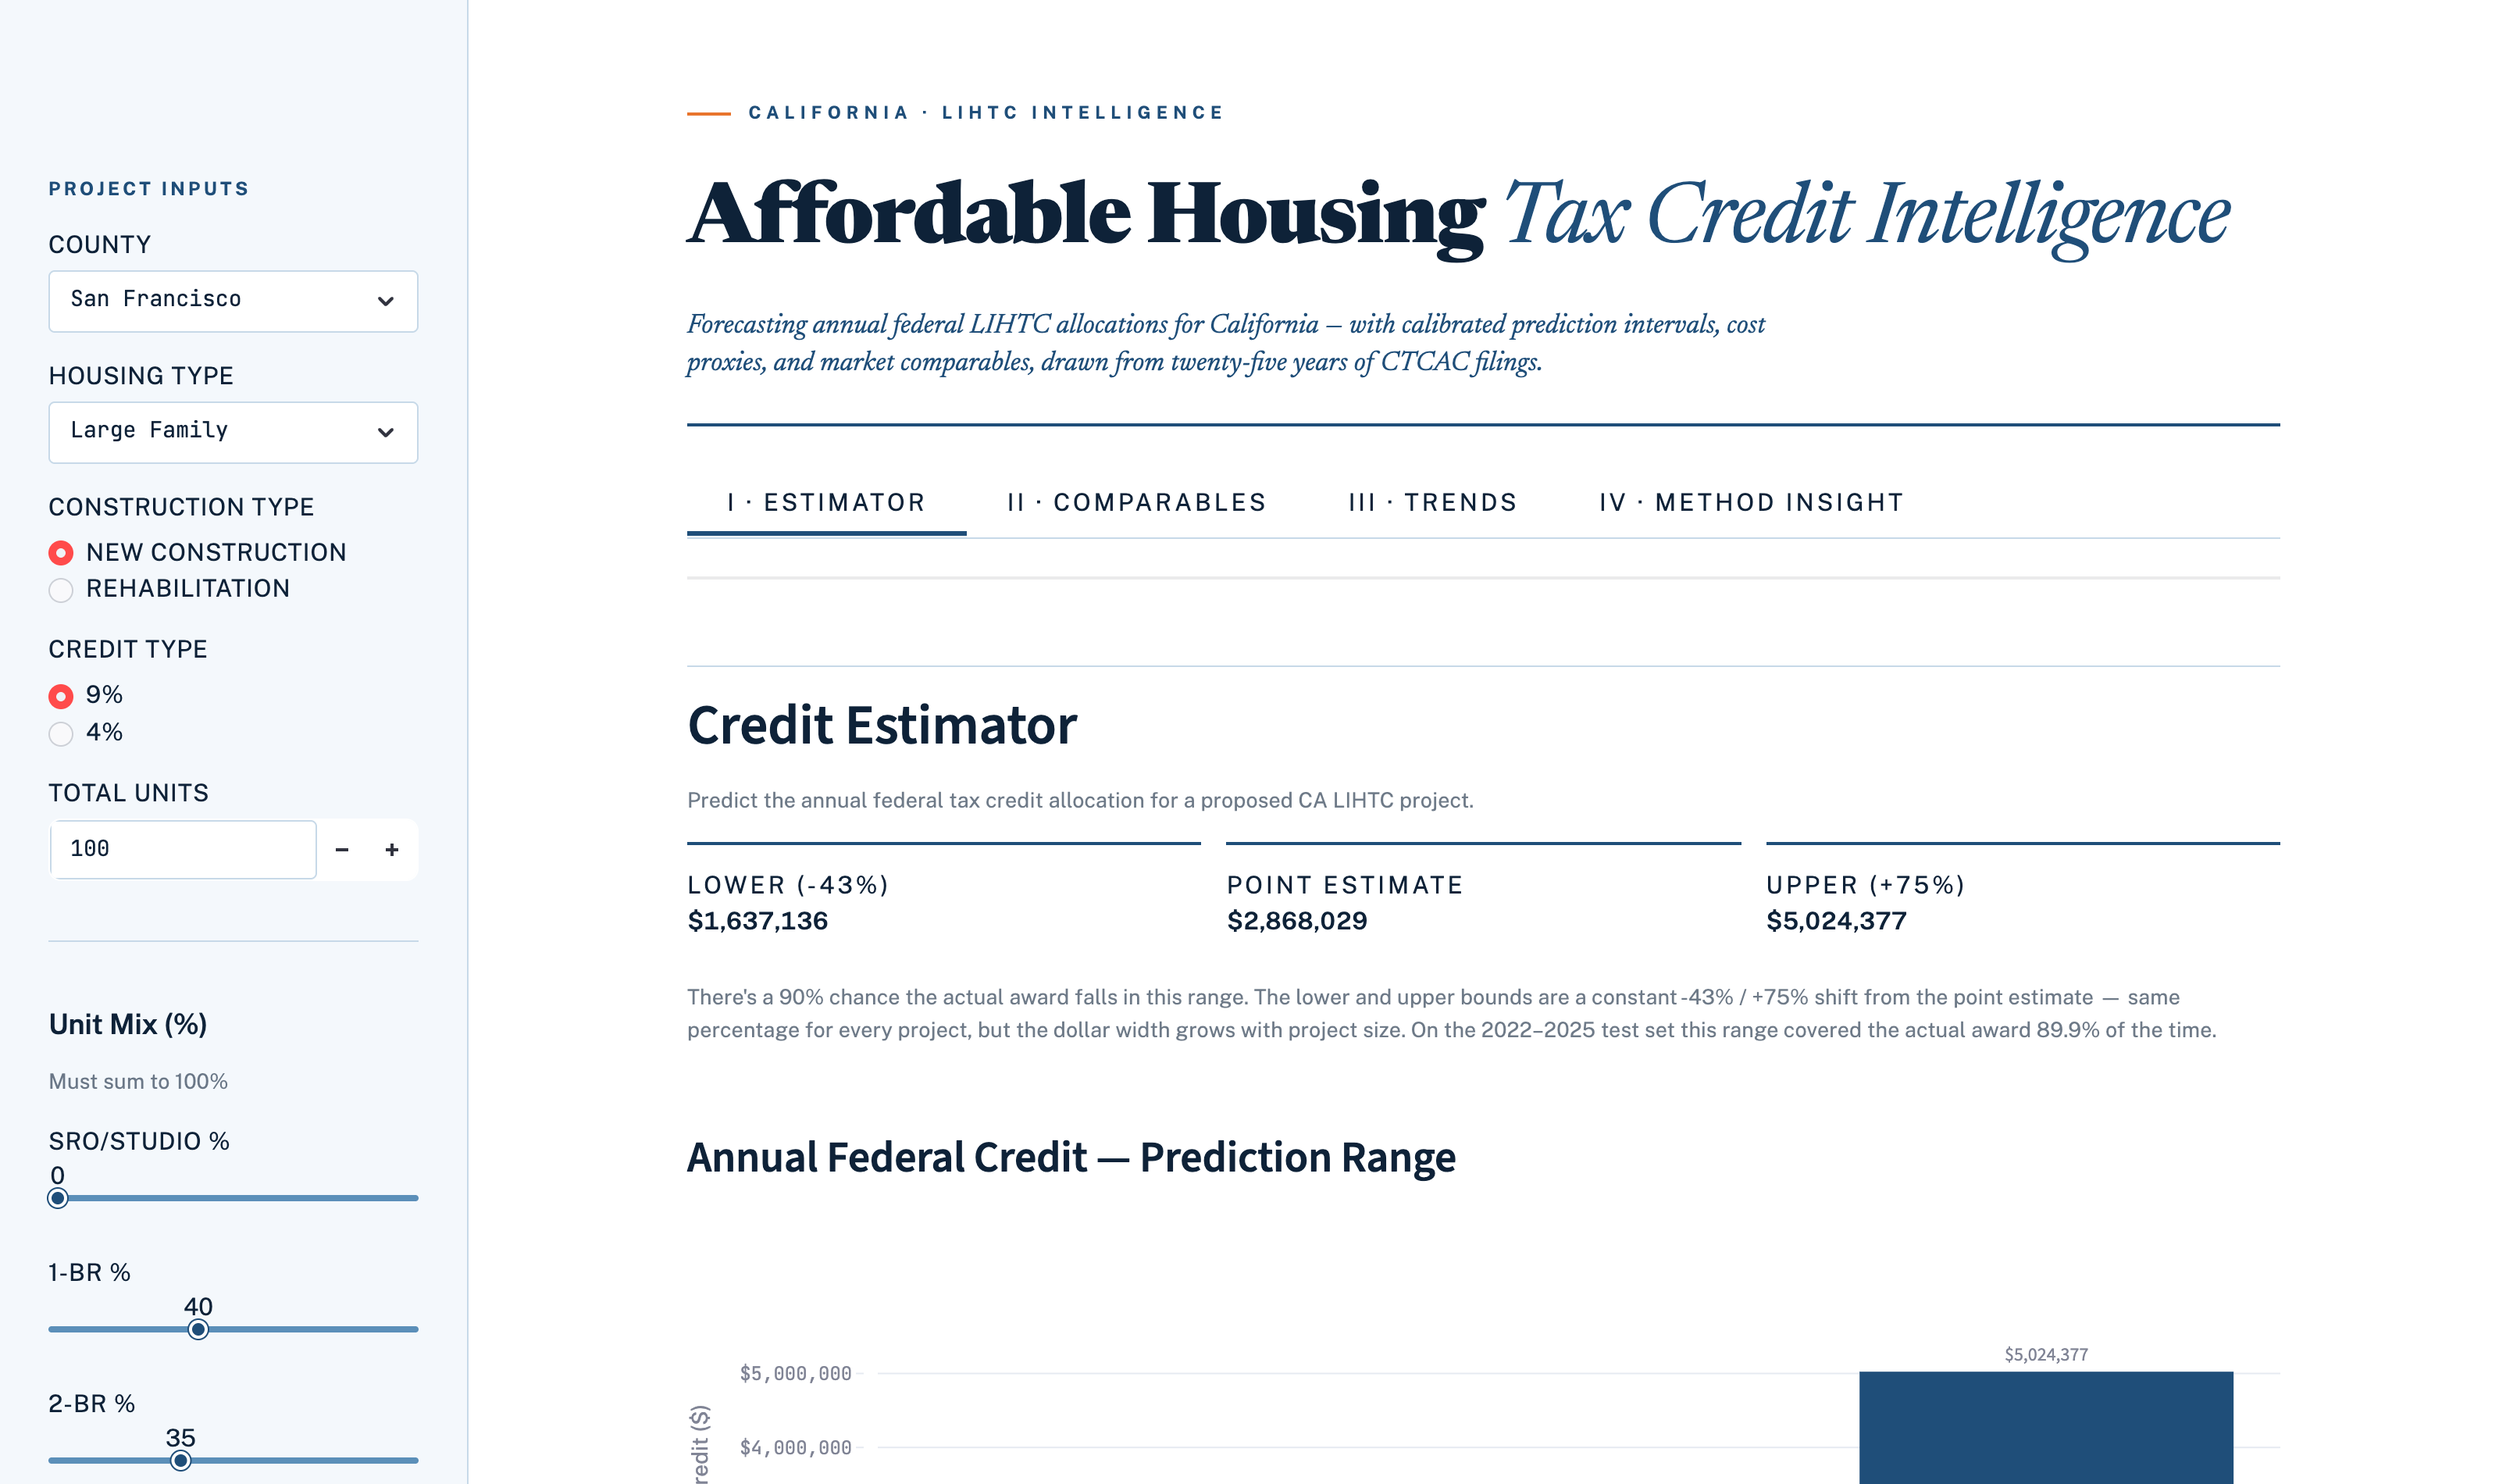
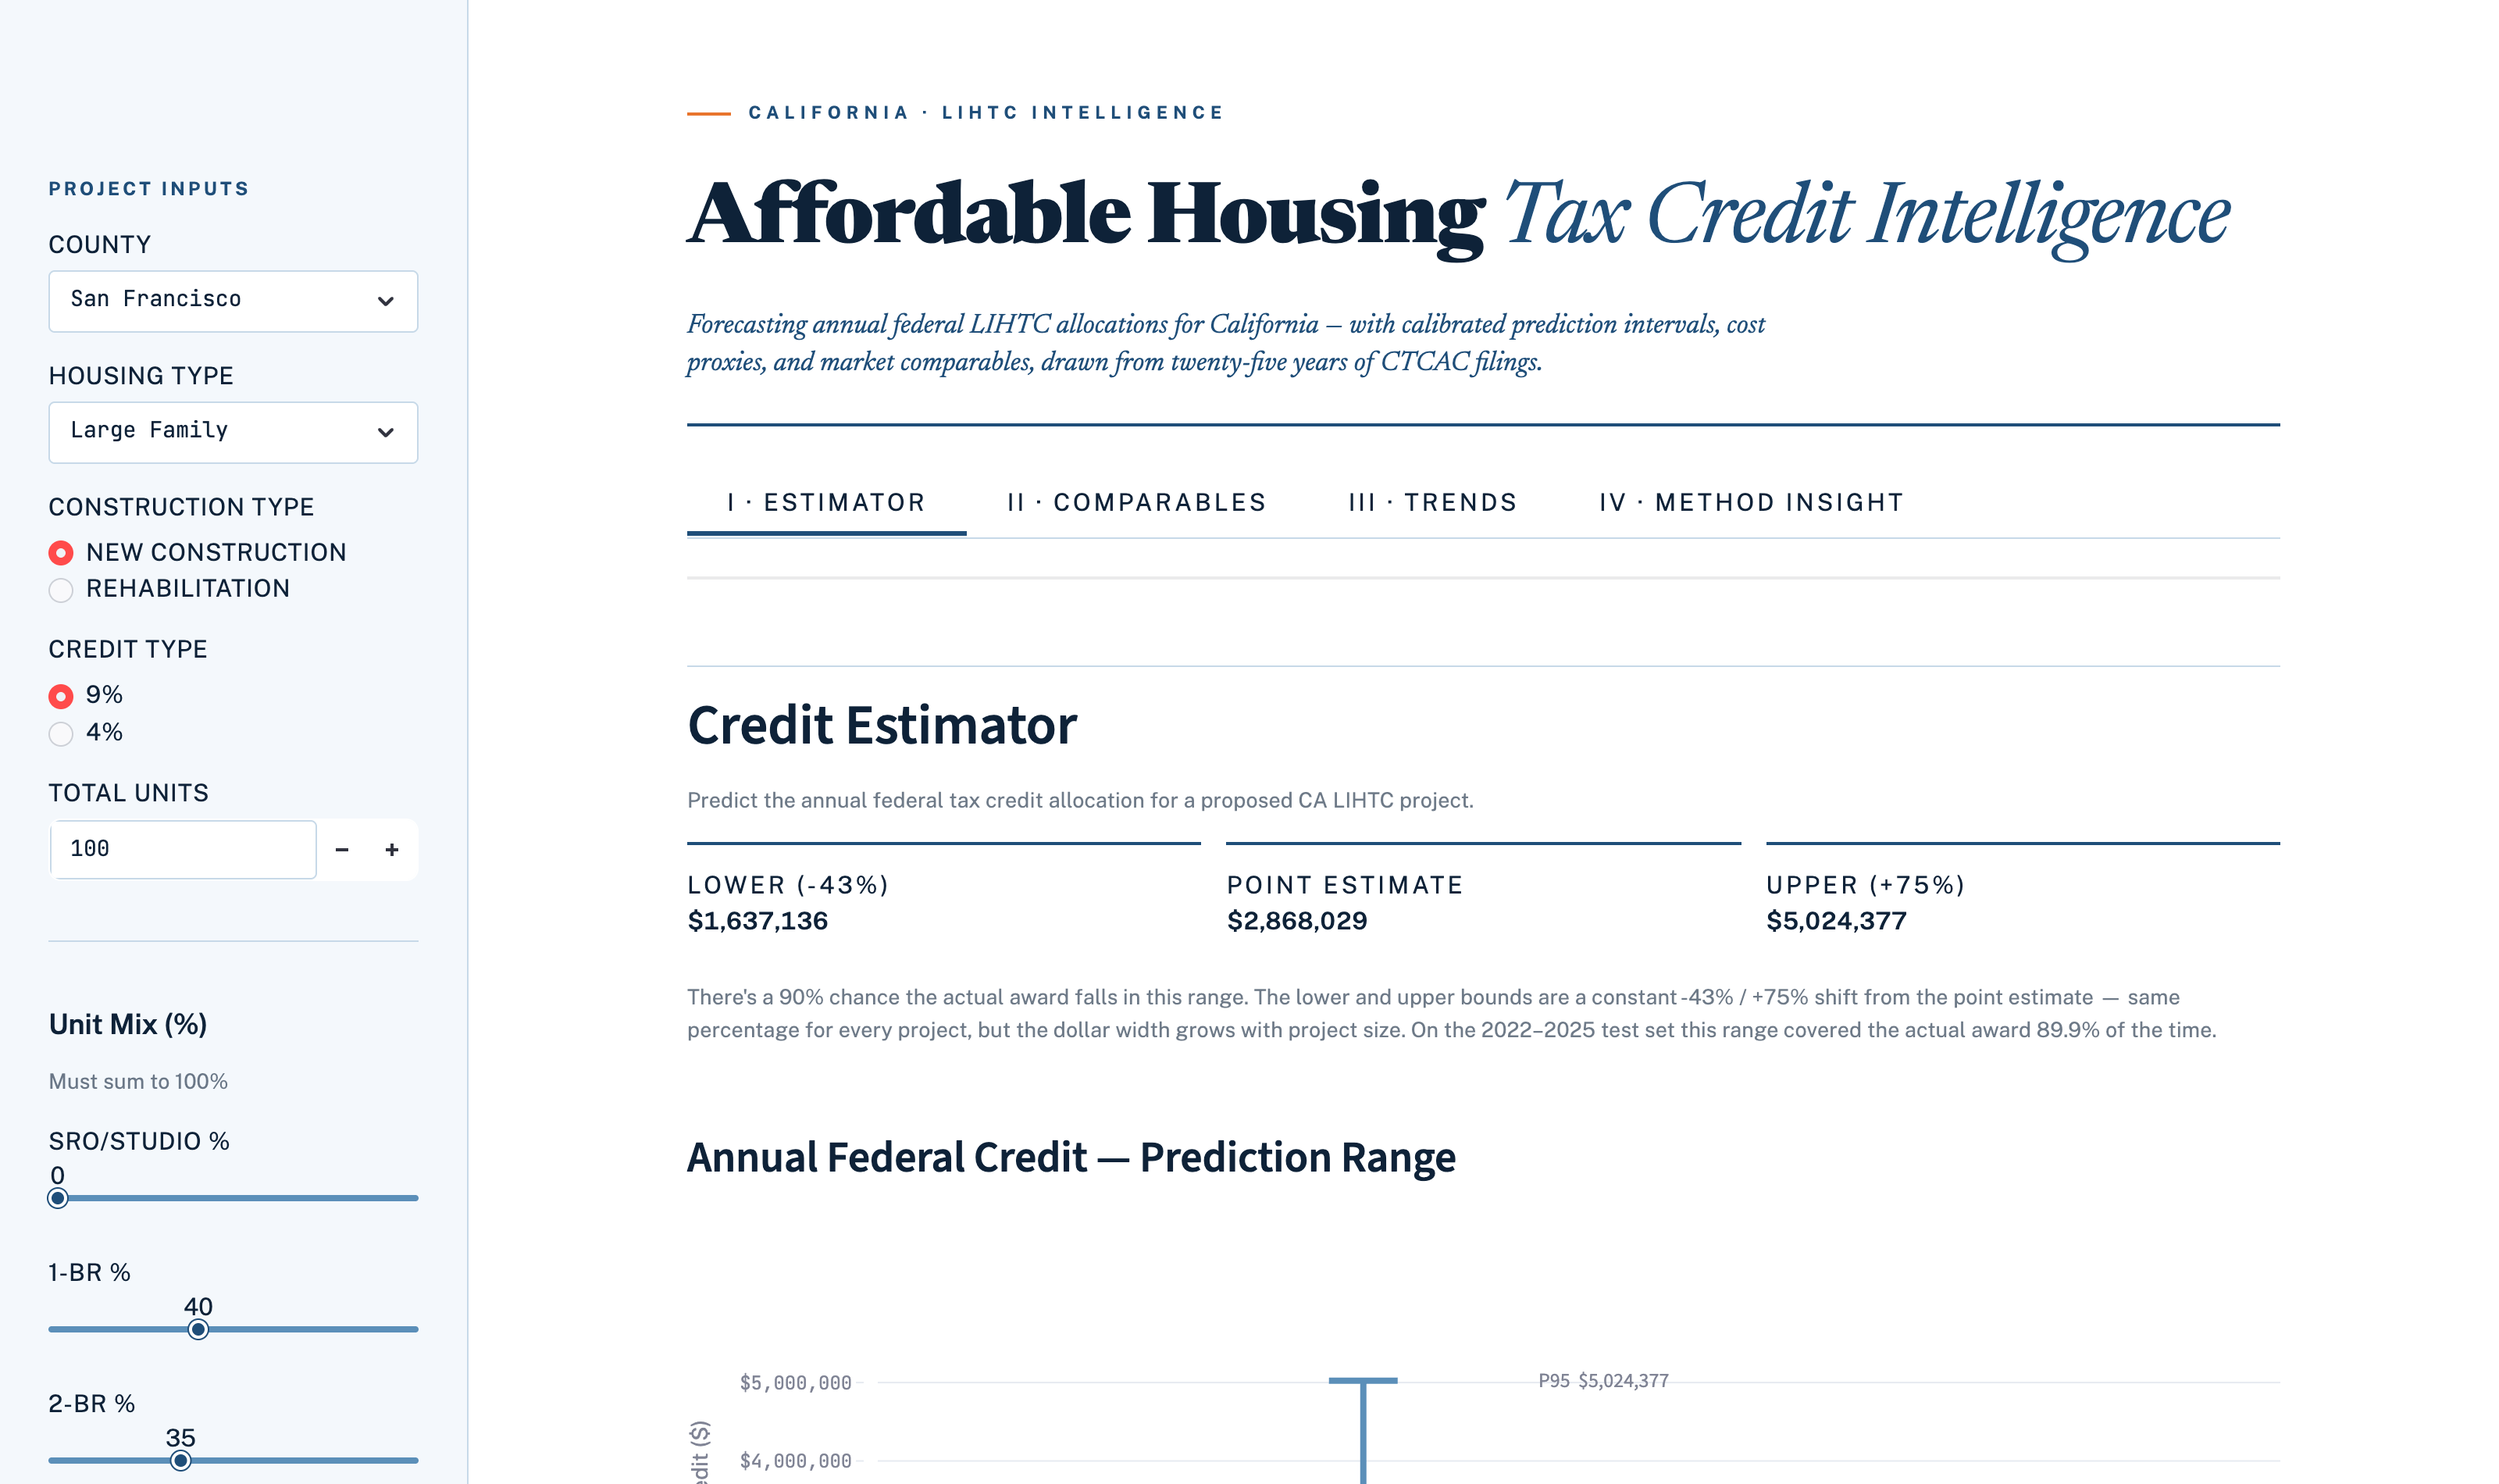
feat(app): chart redesign — interval dot plot, stacked volume, housing defaults, captions, overfit-vs-shift table
- Tab I: 3-bar prediction range replaced with dot + error bar (one estimate
  with its 90% interval, dollars on the y-axis)
- Tab II: comparables table drops formula-derived Basis/Unit column, shorter
  headers so all columns fit; county trend line gains small-n caption
- Tab III: statewide/county captions added; housing-type chart defaults to
  3 of 6 types behind a multiselect; volume chart stacked by credit type
  with 2008-trough / 2023-24-surge caption
- Tab IV: new overfit-vs-shift table (NB04 §10a three-stage R² decomposition)
- README screenshots refreshed to match

diff --git a/streamlit_app.py b/streamlit_app.py
@@ -495,23 +495,47 @@ def render_credit_estimator(models, lookups, ppi_df, inputs):
         f"{models['conformal']['coverage_test']:.1f}% of the time."
     )
 
-    # --- Prediction range bar chart ---
+    # --- Prediction range: dot + error bar (one estimate with its interval) ---
+    # The three numbers are ONE estimate and its uncertainty range, not three
+    # quantities to compare — so they're drawn as a dot with a whisker, dollar
+    # amounts on the y-axis, instead of three side-by-side bars.
     st.subheader("Annual Federal Credit — Prediction Range")
-    fig_bar = go.Figure()
-    fig_bar.add_trace(go.Bar(
-        x=[lower_label, "Point estimate", upper_label],
-        y=[p10, p50, p90],
-        marker_color=[CHART_COLORS["lower"], CHART_COLORS["point"], CHART_COLORS["upper"]],
-        text=[f"${p10:,.0f}", f"${p50:,.0f}", f"${p90:,.0f}"],
-        textposition="outside",
+    fig_range = go.Figure()
+    fig_range.add_trace(go.Scatter(
+        x=["Your project"], y=[p50],
+        mode="markers",
+        marker=dict(size=18, color=CHART_COLORS["upper"]),
+        error_y=dict(
+            type="data", symmetric=False,
+            array=[p90 - p50], arrayminus=[p50 - p10],
+            color=CHART_COLORS["point"], thickness=4, width=22,
+        ),
+        customdata=[[p10, p90]],
+        hovertemplate=(
+            "P95: $%{customdata[1]:,.0f}<br>"
+            "Point: $%{y:,.0f}<br>"
+            "P5: $%{customdata[0]:,.0f}<extra></extra>"
+        ),
     ))
-    fig_bar.update_layout(
+    for yv, txt, bold in (
+        (p10, f"P5&nbsp;&nbsp;${p10:,.0f}", False),
+        (p50, f"Point&nbsp;&nbsp;${p50:,.0f}", True),
+        (p90, f"P95&nbsp;&nbsp;${p90:,.0f}", False),
+    ):
+        fig_range.add_annotation(
+            x="Your project", y=yv, xshift=110, xanchor="left", showarrow=False,
+            text=f"<b>{txt}</b>" if bold else txt,
+            font=dict(size=13),
+        )
+    fig_range.update_layout(
         yaxis_title="Annual Federal Credit ($)",
         yaxis_tickformat="$,.0f",
-        height=400,
+        yaxis_range=[0, p90 * 1.15],
+        xaxis_range=[-0.9, 1.7],
+        height=420,
         showlegend=False,
     )
-    st.plotly_chart(fig_bar, width="stretch")
+    st.plotly_chart(fig_range, width="stretch")
 
     # --- 10-year credit stream & equity ---
     st.subheader("10-Year Credit Stream & Equity Estimate")
@@ -658,22 +682,22 @@ def render_comparables(models, df, lookups, ppi_df, inputs):
         "project_name", "county", "pis_year", "housing_type",
         "construction_type", "credit_type", "total_units",
         "annual_federal_award", "credit_per_unit",
-        "implied_basis_per_unit", "developer", "similarity",
+        "developer", "similarity",
     ]
     display_df = comps[display_cols].copy()
+    # Basis/Unit dropped: it's a formula-derived echo of the award (basis =
+    # award / (rate × LI)), and removing it + shorter headers lets every
+    # column fit without horizontal scrolling.
     display_df.columns = [
-        "Project", "County", "Year", "Housing Type",
-        "Construction", "Credit Type", "Units",
-        "Annual Credit", "Credit/Unit",
-        "Basis/Unit", "Developer", "Similarity",
+        "Project", "County", "Year", "Type",
+        "Constr.", "Credit", "Units",
+        "Annual Credit", "$/Unit",
+        "Developer", "Similarity",
     ]
     display_df["Annual Credit"] = display_df["Annual Credit"].apply(
         lambda x: f"${x:,.0f}" if pd.notna(x) else "N/A"
     )
-    display_df["Credit/Unit"] = display_df["Credit/Unit"].apply(
-        lambda x: f"${x:,.0f}" if pd.notna(x) else "N/A"
-    )
-    display_df["Basis/Unit"] = display_df["Basis/Unit"].apply(
+    display_df["$/Unit"] = display_df["$/Unit"].apply(
         lambda x: f"${x:,.0f}" if pd.notna(x) else "N/A"
     )
     display_df["Similarity"] = display_df["Similarity"].apply(lambda x: f"{x:.2%}")
@@ -794,6 +818,10 @@ def render_comparables(models, df, lookups, ppi_df, inputs):
 
     # --- Trend chart: credit per unit over time for this county + housing type ---
     st.subheader("Credit Trend — Your County & Housing Type")
+    st.caption(
+        "Annual medians are noisy at the county level (small n per year), so the "
+        "Project Group panel above aggregates 2015–2025 to provide a more stable reference."
+    )
     county_ht = df[
         (df["county"] == inputs["county"]) &
         (df["housing_type"] == inputs["housing_type"])
@@ -891,6 +919,11 @@ def render_trends(df):
     )
     fig_state.update_layout(yaxis_tickformat="$,.0f")
     st.plotly_chart(fig_state, width="stretch")
+    st.caption(
+        "Per-unit credits have roughly tripled since 2000, with 9% credits "
+        "consistently exceeding 4% bond deals by 30–50% — a trend the model "
+        "learns to predict 2026 values."
+    )
 
     # --- County comparison ---
     st.subheader("County Comparison")
@@ -922,6 +955,10 @@ def render_trends(df):
         )
         fig_county.update_layout(yaxis_tickformat="$,.0f")
         st.plotly_chart(fig_county, width="stretch")
+        st.caption(
+            "Pick 2–5 counties to compare. Yearly medians can be spiky in "
+            "smaller counties — fewer projects per year."
+        )
 
     # --- Housing type breakdown ---
     st.subheader("Credit per Unit by Housing Type")
@@ -933,36 +970,65 @@ def render_trends(df):
         help="9% credits are competitive and typically larger; 4% credits are bond-financed and smaller. Filter to compare housing-type trends within one credit class.",
     )
     ht_df = df[df["credit_type"] == ht_credit_type]
-    ht_trend = ht_df.groupby(["pis_year", "housing_type"]).agg(
-        median_cpu=("credit_per_unit", "median"),
-    ).reset_index()
 
-    fig_ht = px.line(
-        ht_trend, x="pis_year", y="median_cpu", color="housing_type",
-        markers=True,
-        labels={
-            "pis_year": "Year",
-            "median_cpu": "Median Credit per Unit ($)",
-            "housing_type": "Housing Type",
-        },
-        color_discrete_map=HOUSING_TYPE_COLORS,
+    # Default to 3 of 6 types — all six at once is unreadable spaghetti, and
+    # some types are sparse within a credit class (9% SRO mostly stops after
+    # 2019; 9% Non-Targeted ends in 2004). The rest are one click away.
+    all_types = [t for t in HOUSING_TYPE_COLORS if t in set(ht_df["housing_type"].unique())]
+    default_types = [t for t in ("Large Family", "Senior", "SRO") if t in all_types]
+    selected_types = st.multiselect(
+        "Housing types to show",
+        all_types,
+        default=default_types,
+        key="trends_ht_types",
     )
-    fig_ht.update_traces(line=dict(width=2.2), marker=dict(size=7))
-    fig_ht.update_layout(
-        yaxis_tickformat="$,.0f",
-        title=f"Median Credit per Unit · {ht_credit_type} credits only",
-    )
-    st.plotly_chart(fig_ht, width="stretch")
+
+    if selected_types:
+        ht_trend = ht_df[ht_df["housing_type"].isin(selected_types)].groupby(
+            ["pis_year", "housing_type"]
+        ).agg(
+            median_cpu=("credit_per_unit", "median"),
+        ).reset_index()
+
+        fig_ht = px.line(
+            ht_trend, x="pis_year", y="median_cpu", color="housing_type",
+            markers=True,
+            labels={
+                "pis_year": "Year",
+                "median_cpu": "Median Credit per Unit ($)",
+                "housing_type": "Housing Type",
+            },
+            color_discrete_map=HOUSING_TYPE_COLORS,
+        )
+        fig_ht.update_traces(line=dict(width=2.2), marker=dict(size=7))
+        fig_ht.update_layout(
+            yaxis_tickformat="$,.0f",
+            title=f"Median Credit per Unit · {ht_credit_type} credits only",
+        )
+        st.plotly_chart(fig_ht, width="stretch")
+        st.caption(
+            "Showing 3 of 6 types by default — add the rest above. Short or broken "
+            "lines just mean few projects of that type in this credit class."
+        )
+    else:
+        st.info("Pick at least one housing type above.")
 
     # --- Volume over time ---
     st.subheader("Project Volume by Year")
-    vol = df.groupby("pis_year").size().reset_index(name="Projects")
+    # Stacked by credit type: volume AND composition in one chart, colors
+    # matching the statewide credit-type chart above.
+    vol = df.groupby(["pis_year", "credit_type"]).size().reset_index(name="Projects")
     fig_vol = px.bar(
-        vol, x="pis_year", y="Projects",
-        labels={"pis_year": "Year", "Projects": "Number of Projects"},
-        color_discrete_sequence=[PALETTE["navy"]],
+        vol, x="pis_year", y="Projects", color="credit_type",
+        labels={"pis_year": "Year", "Projects": "Number of Projects", "credit_type": "Credit Type"},
+        color_discrete_map={"9%": PALETTE["oxblood"], "4%": PALETTE["navy"]},
     )
+    fig_vol.update_layout(barmode="stack")
     st.plotly_chart(fig_vol, width="stretch")
+    st.caption(
+        "Volume dipped after the 2008 financial crisis and surged in 2023–24 — "
+        "with 4% bond deals driving most of the recent growth."
+    )
 
 
 # ---------------------------------------------------------------------------
@@ -1209,6 +1275,35 @@ def _render_conformal_coverage(preds, conformal):
     )
 
 
+def _render_overfit_shift_table():
+    """§2 table — the three-stage R² decomposition from NB04 §10a.
+
+    train−CV isolates in-distribution overfit; CV−test isolates what the 2.26×
+    distribution shift actually cost. Values are hardcoded from the NB04 §10a
+    run — regenerate there if the models are retrained.
+    """
+    st.markdown(
+        "**Overfit vs. distribution shift — where the test gap really comes from (R²)**"
+    )
+    diag = pd.DataFrame({
+        "Model": ["Random Forest", "XGBoost (deployed)", "LightGBM p50", "Stacking v2"],
+        "Train": [0.936, 0.867, 0.898, 0.897],
+        "CV": [0.402, 0.597, 0.550, 0.601],
+        "Test": [0.399, 0.620, 0.546, 0.656],
+        "Overfit (Train−CV)": [0.535, 0.270, 0.347, 0.296],
+        "Shift (CV−Test)": [0.002, -0.023, 0.004, -0.054],
+    })
+    st.dataframe(diag, hide_index=True, width="stretch")
+    st.caption(
+        "For every tree model the shift column is basically zero — the gap between "
+        "train and test R² is in-distribution overfit, not the 2.26× shift. That's "
+        "why improvement effort goes to features and data volume, not shift "
+        "correction, and XGBoost's controlled overfit is one reason it's the "
+        "deployed model. (Ridge is omitted: its CV R² of −28.9 comes from linear "
+        "extrapolation blow-ups on the log scale; full table in NB04 §10a.)"
+    )
+
+
 def render_method_insight(models, df_train, df_test, model_comparison):
     st.header("Method Insight")
     st.caption("How the model was built and validated — for the technical reader.")
@@ -1222,6 +1317,7 @@ def render_method_insight(models, df_train, df_test, model_comparison):
     st.subheader("§ 2   Modeling — Does It Fit?")
     preds = compute_test_predictions(models, df_test)
     _render_actual_vs_predicted(preds, model_comparison)
+    _render_overfit_shift_table()
     shap_df = compute_global_shap(models, df_test)
     _render_global_shap(shap_df, n_sample=200)
 
